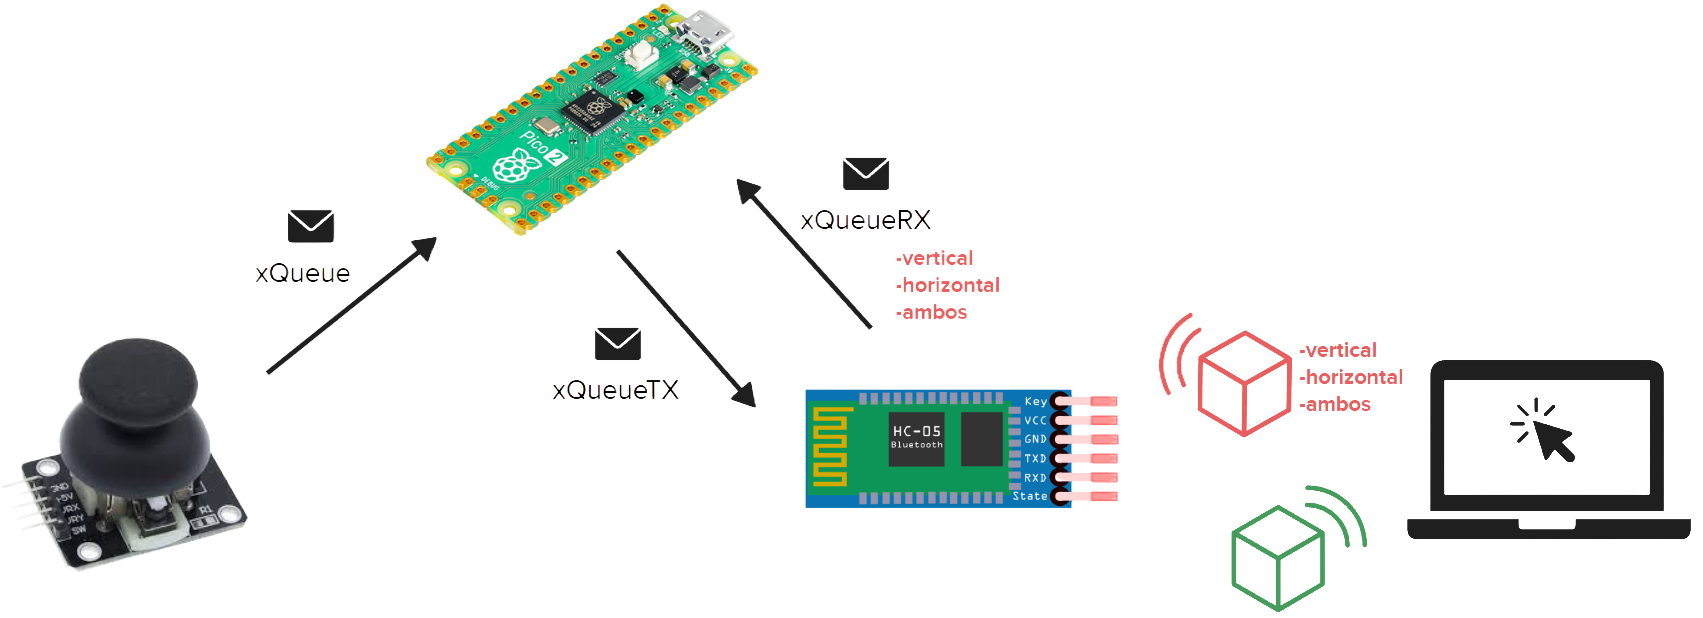
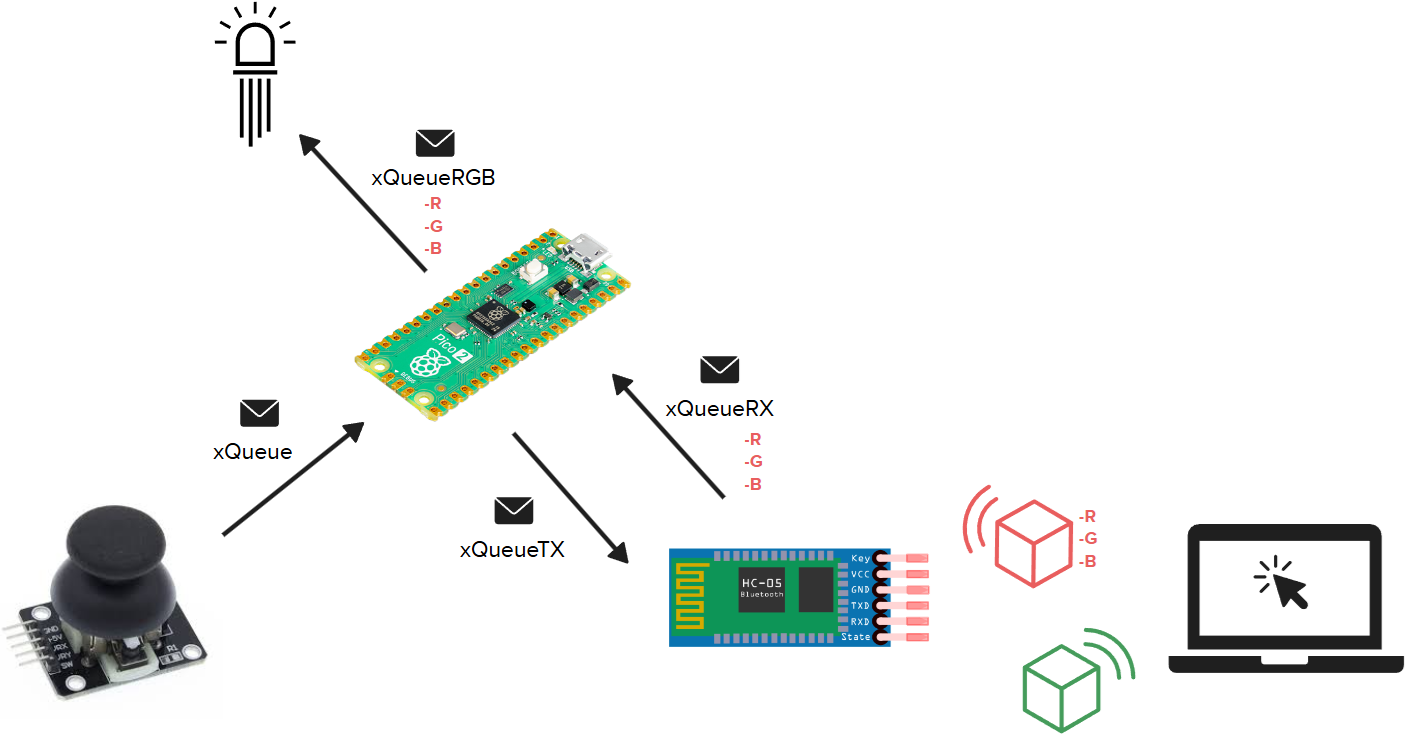
update expert BT

Changed region(s): [[0.1561, 0.0, 0.9993, 1.0], [0.0, 0.5227, 0.1561, 0.9531], [0.1561, 0.6764, 0.1874, 0.7379]]

diff --git a/docs/labs-expert/labs-expert-com-hc06.md b/docs/labs-expert/labs-expert-com-hc06.md
@@ -57,30 +57,21 @@ A ideia deste laboratório é implementar um sistema interativo de pareamento do
 
 ## Entrega
 
-![Texto Alternativo](imgs-hc06/diagrama-EXPERT-BT.png)
+![entrega_EXPERT-BT](imgs-hc06/diagrama-EXPERT-BT.png)
 
-Você deverá integrar a aplicação desenvolvida neste laboratório ao projeto do [Lab 6. ADC e PWM](https://insper-embarcados.github.io/site/labs/adc-pwm-pra.html), criando assim um mouse wireless utilizando Bluetooth.
+Você deverá integrar a aplicação desenvolvida neste laboratório ao projeto do [Lab 6. ADC e PWM](https://insper-embarcados.github.io/site/labs/adc-pwm-pra.html), criando assim um mouse wireless (com iluminação RGB) utilizando Bluetooth.
 
 O projeto final deverá obrigatoriamente possuir:
 
 - O sistema de sincronização Bluetooth desenvolvido neste laboratório
-  - Geração de PIN randômico
+  - Geração e exibição do PIN randômico no display OLED
   - Configuração automática do HC-06
-  - Exibição do PIN no display OLED
   - Pareamento utilizando botão físico
 
 - Um programa em Python no computador responsável por:
-  - Receber os dados enviados pela Raspberry Pi Pico
-  - Interpretar os comandos recebidos
-  - Converter os dados em movimentação do mouse
+  - Receber os dados enviados pela Pico e converter em movimento do mouse
+  - Enviar dados de configuração do LED RGB, alterando as cores Vermelho, Verde ou Azul.
 
-O sistema deverá implementar os seguintes comandos de movimentação:
-
-| Comando | Funcionamento |
-|---|---|
-| `vertical` | O mouse deverá se mover apenas no eixo vertical (Y) |
-| `horizontal` | O mouse deverá se mover apenas no eixo horizontal (X) |
-| `ambos` | O mouse deverá se mover simultaneamente nos eixos horizontal e vertical |
 
 ## Dicas
 
